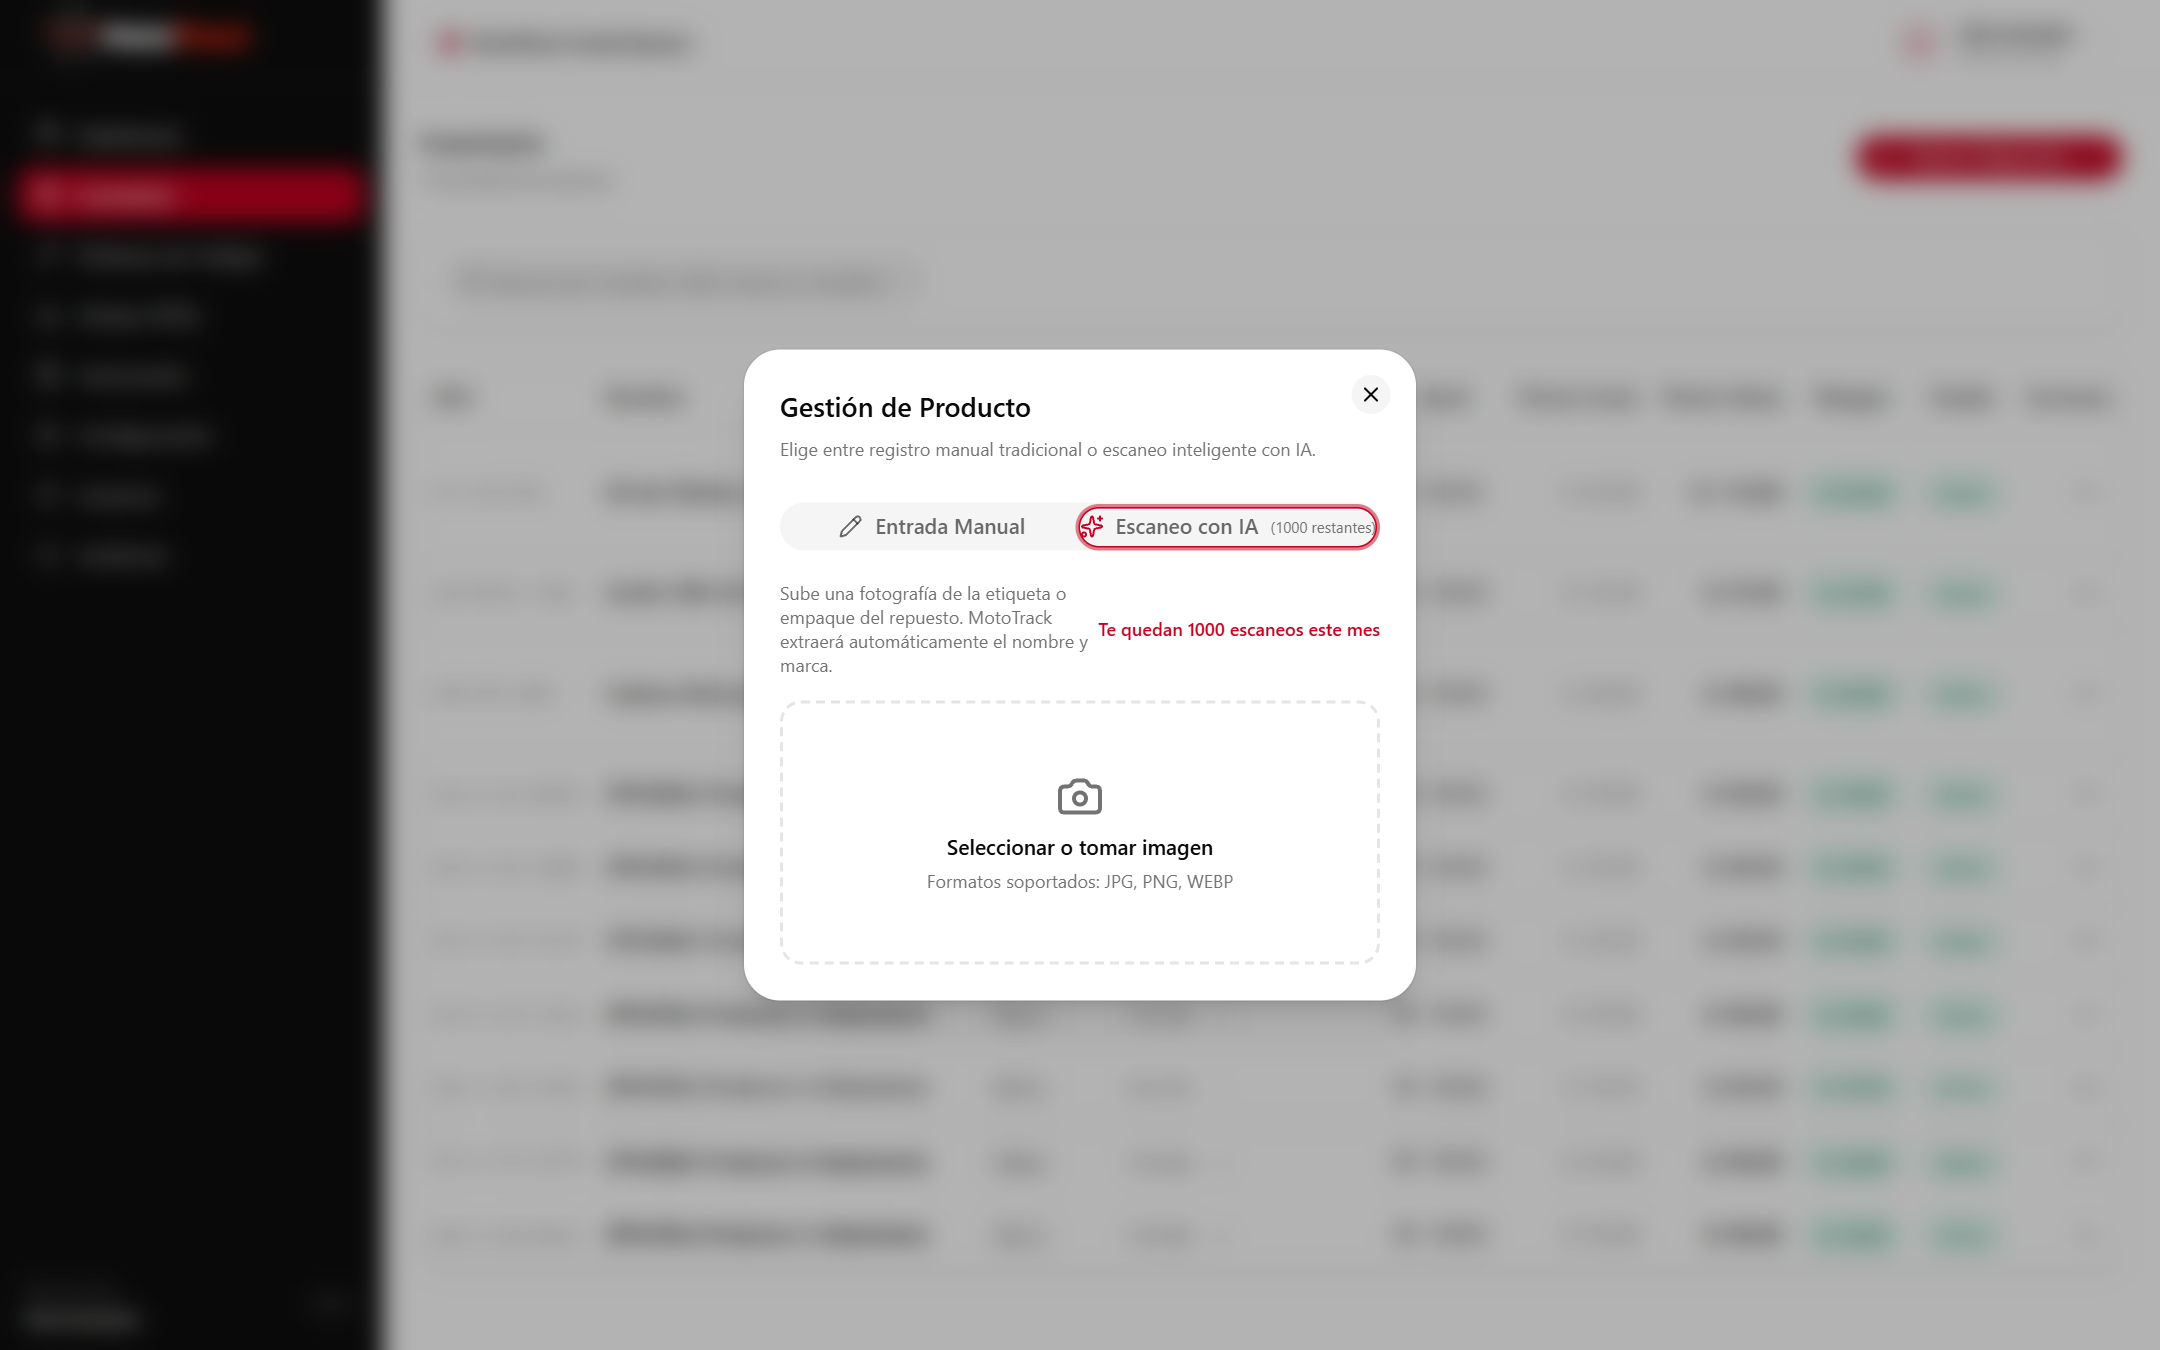
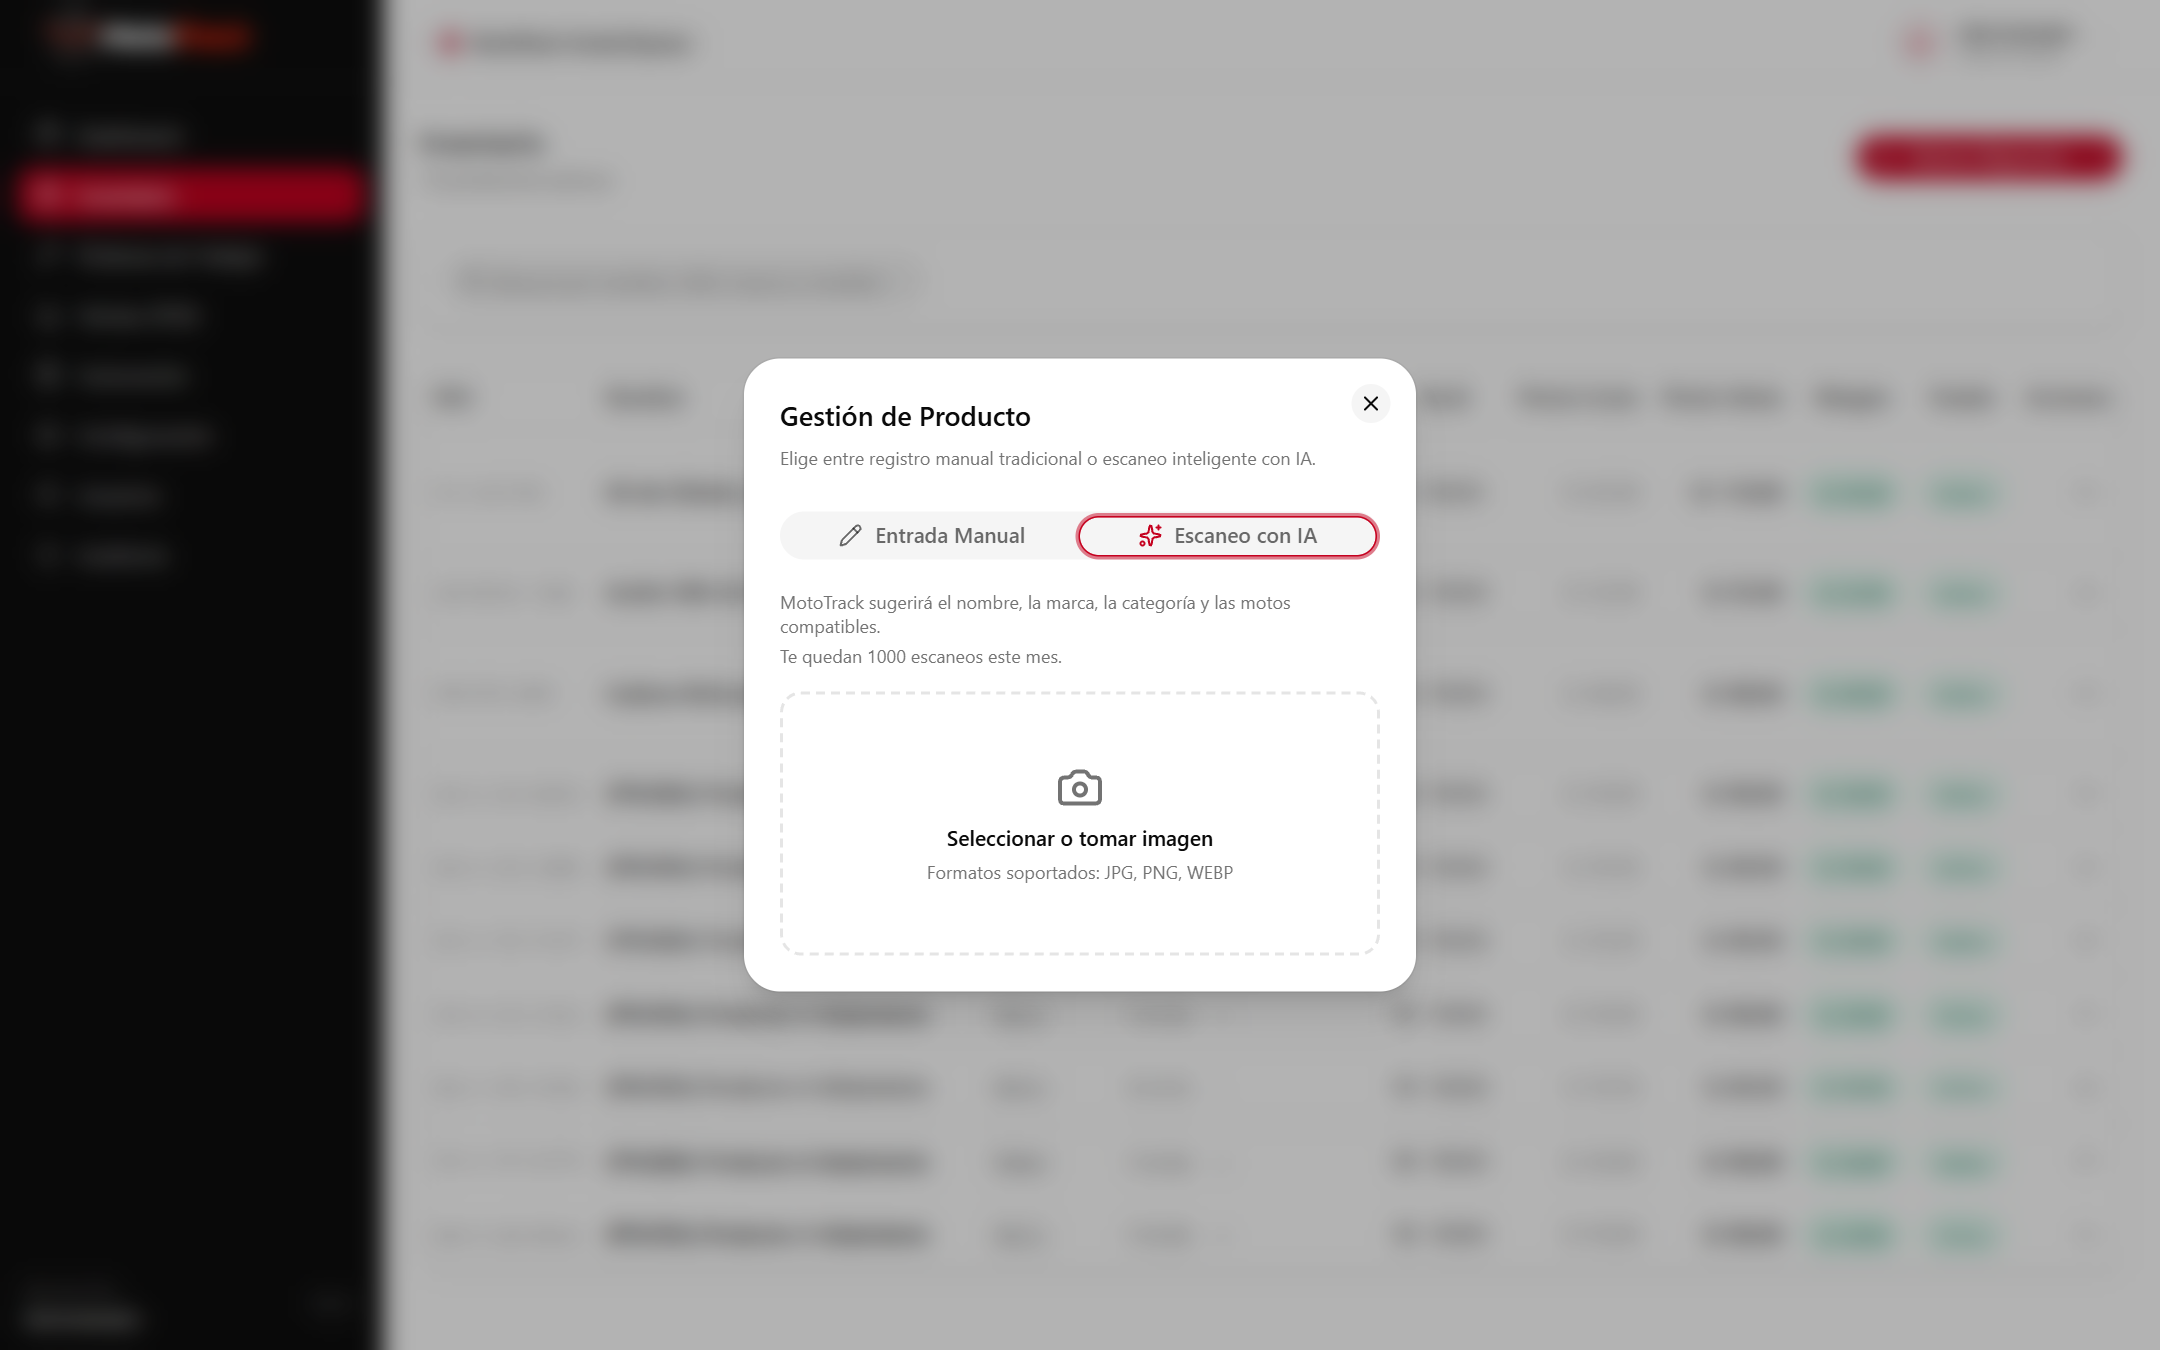
feat(planes): card Mi plan con colores por umbral, cupo de escaneos y límite de usuarios; .env fuera del repo

diff --git a/src/pages/SettingsPage.jsx b/src/pages/SettingsPage.jsx
@@ -340,8 +340,8 @@ export default function SettingsPage() {
                       aiScansPct >= 100
                         ? '[&>[data-slot=progress-indicator]]:bg-destructive'
                         : aiScansPct >= 80
-                        ? '[&>[data-slot=progress-indicator]]:bg-amber-500'
-                        : '[&>[data-slot=progress-indicator]]:bg-primary'
+                        ? '[&>[data-slot=progress-indicator]]:bg-warning'
+                        : '[&>[data-slot=progress-indicator]]:bg-success'
                     )}
                   />
                   <p className="text-[11px] text-muted-foreground">
@@ -368,8 +368,8 @@ export default function SettingsPage() {
                       usersPct >= 100
                         ? '[&>[data-slot=progress-indicator]]:bg-destructive'
                         : usersPct >= 80
-                        ? '[&>[data-slot=progress-indicator]]:bg-amber-500'
-                        : '[&>[data-slot=progress-indicator]]:bg-primary'
+                        ? '[&>[data-slot=progress-indicator]]:bg-warning'
+                        : '[&>[data-slot=progress-indicator]]:bg-success'
                     )}
                   />
                   <p className="text-[11px] text-muted-foreground">
@@ -381,7 +381,7 @@ export default function SettingsPage() {
               </div>
             )}
 
-            <div className="pt-2 border-t border-border/60 flex items-center justify-between text-xs text-muted-foreground">
+            <div className="pt-2 border-t border-border/60 text-xs text-muted-foreground">
               <span>
                 ¿Necesitas más? Escríbenos a{' '}
                 <a
@@ -391,12 +391,6 @@ export default function SettingsPage() {
                   {supportEmail}
                 </a>
               </span>
-              {planData?.plan?.features?.whatsapp && (
-                <span className="inline-flex items-center gap-1 text-[11px] font-medium text-emerald-600 dark:text-emerald-400">
-                  <CheckCircle2 className="w-3.5 h-3.5" />
-                  Soporte WhatsApp incluido
-                </span>
-              )}
             </div>
           </CardContent>
         </Card>

diff --git a/src/components/inventory/ProductDialog.jsx b/src/components/inventory/ProductDialog.jsx
@@ -459,11 +459,6 @@ export default function ProductDialog({
                 <TabsTrigger value="scan" className="flex items-center gap-2">
                   <Sparkles className="w-3.5 h-3.5 text-primary" />
                   <span>Escaneo con IA</span>
-                  {remainingScans != null && (
-                    <span className="text-[10px] text-muted-foreground font-normal">
-                      ({remainingScans} restantes)
-                    </span>
-                  )}
                 </TabsTrigger>
               </TabsList>
 
@@ -641,15 +636,15 @@ export default function ProductDialog({
               <TabsContent value="scan" className="space-y-4 pt-3">
                 {scanStep === 'select' && (
                   <div className="space-y-4">
-                    <div className="flex flex-col sm:flex-row sm:items-center sm:justify-between gap-1 text-xs text-muted-foreground">
+                    <div className="space-y-1 text-xs text-muted-foreground">
                       <p>
-                        Sube una fotografía de la etiqueta o empaque del repuesto. MotoTrack extraerá automáticamente el nombre y marca.
+                        MotoTrack sugerirá el nombre, la marca, la categoría y las motos compatibles.
                       </p>
-                      <span className="font-semibold text-primary shrink-0">
+                      <p>
                         {remainingScans != null
-                          ? `Te quedan ${remainingScans} escaneos este mes`
-                          : 'Escaneos ilimitados'}
-                      </span>
+                          ? `Te quedan ${remainingScans} escaneos este mes.`
+                          : 'Escaneos ilimitados.'}
+                      </p>
                     </div>
 
                     {isScanLimitReached ? (

diff --git a/src/index.css b/src/index.css
@@ -59,6 +59,8 @@
   --color-input: var(--input);
   --color-border: var(--border);
   --color-destructive: var(--destructive);
+  --color-success: var(--success);
+  --color-warning: var(--warning);
   --color-accent-foreground: var(--accent-foreground);
   --color-accent: var(--accent);
   --color-muted-foreground: var(--muted-foreground);
@@ -109,6 +111,8 @@
      diferencia de 17° de tono + matiz más cálido → visualmente distinto.
   ─────────────────────────────────────────────────────────────────── */
   --destructive: oklch(0.50 0.20 42);
+  --success: oklch(0.62 0.17 145);  /* verde accesible */
+  --warning: oklch(0.72 0.16 75);   /* ámbar accesible */
 
   --border: oklch(0.922 0 0);
   --input: oklch(0.922 0 0);
@@ -150,6 +154,8 @@
   --accent: oklch(0.269 0 0);
   --accent-foreground: oklch(0.985 0 0);
   --destructive: oklch(0.55 0.20 42);          /* naranja-rojo en oscuro */
+  --success: oklch(0.68 0.17 145);              /* verde accesible en modo oscuro */
+  --warning: oklch(0.75 0.16 75);               /* ámbar accesible en modo oscuro */
   --border: oklch(1 0 0 / 10%);
   --input: oklch(1 0 0 / 15%);
   --ring: oklch(0.58 0.21 25);
